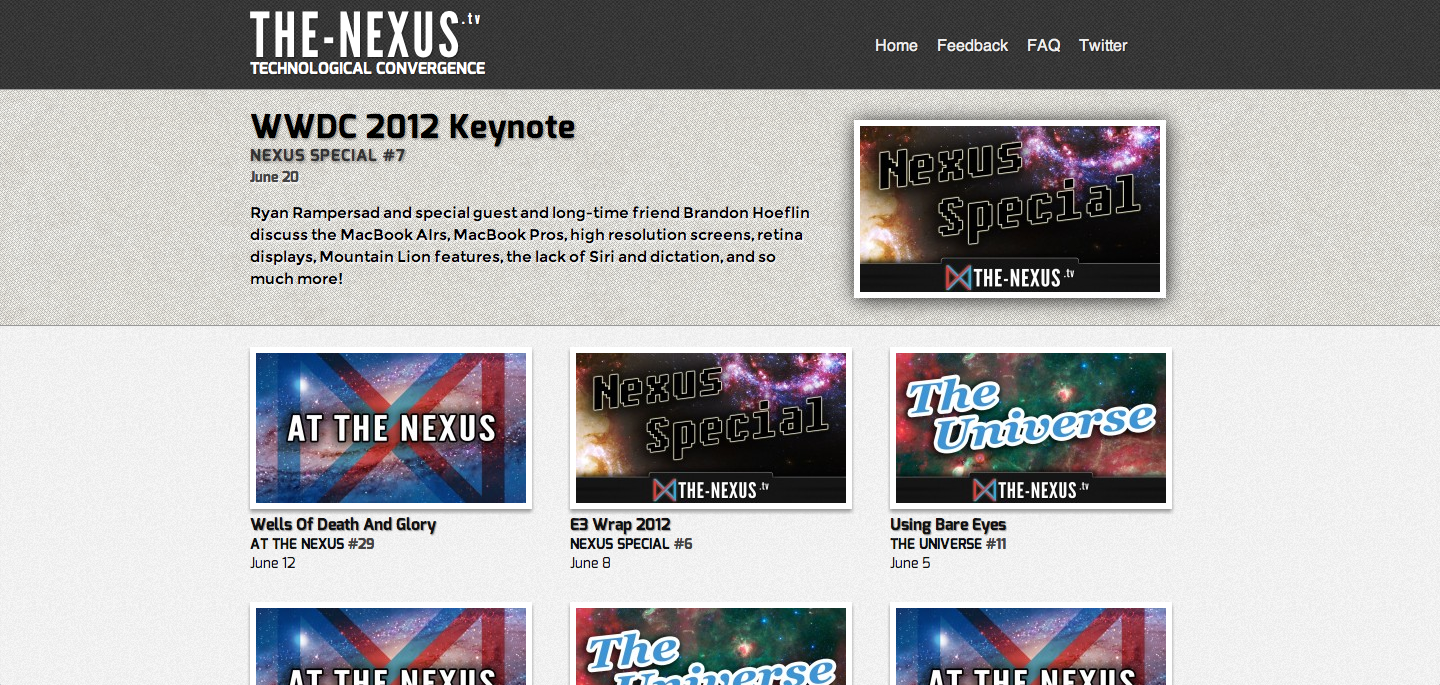
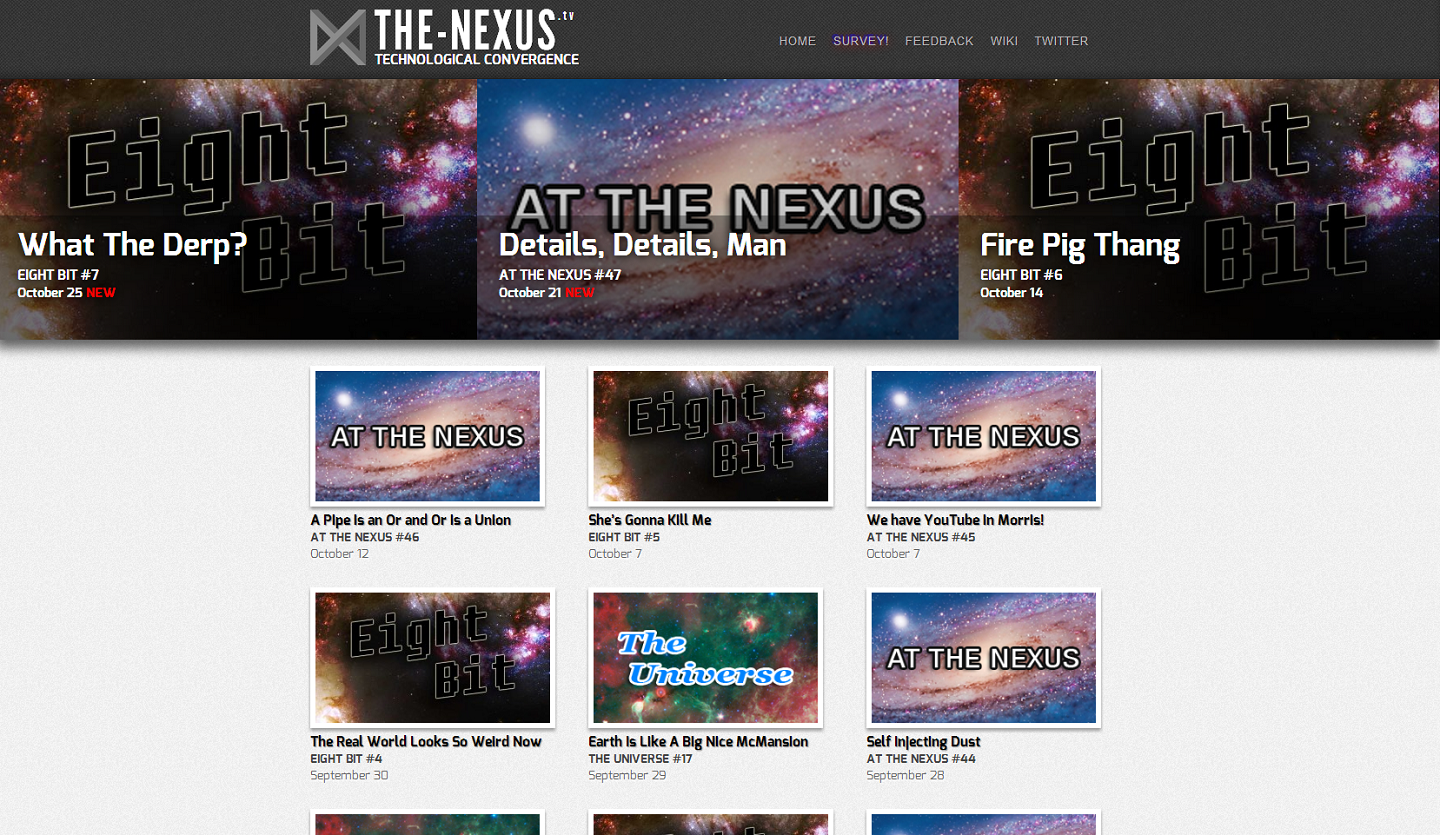
Updated showboard loop and added comments.
Changed front-template comments to reflect new design.
Updated missing comments in functions.
Updated the screenshot to reflect new design.
Did something to styles.

diff --git a/style.css b/style.css
@@ -4,7 +4,7 @@
 * Author: Ryan Rampersad
 * Author URI: http://ryanrampersad.com/
 * Description: The 2012 theme for The Nexus TV.
-* Version: 0.223
+* Version: 0.300
 */
 /* normalize.css */
 /* normalize.css 2011-11-04T15:38 UTC - http://github.com/necolas/normalize.css */
@@ -486,18 +486,19 @@ h1, h2, h3, h4, h5, h6 {
   font-size: 62px;
   line-height: 40px;
   font-family: 'LeagueGothicRegular', Helvetica, Arial, san-serif;
-  font-weight: normal; }
+  font-weight: normal;
+  /*  &:after {
+      content: ".tv";
+      font-size: 16px;
+      top: -2.1em;
+      position: relative;
+      line-height: 0px;
+      font-weight: normal;
+      text-transform: lowercase;
+    }*/ }
   #site-title a {
     color: #fff;
     text-decoration: none; }
-  #site-title:after {
-    content: ".tv";
-    font-size: 16px;
-    top: -2.1em;
-    position: relative;
-    line-height: 0px;
-    font-weight: normal;
-    text-transform: lowercase; }
 
 #site-description {
   margin-top: 2px;
@@ -700,6 +701,8 @@ a[href^="http://bit.ly/tntv-survey"] {
     word-wrap: break-word; }
   #villain .long-title {
     font-size: 30px; }
+  #villain .epic-title {
+    font-size: 24px; }
   #villain .show-name {
     text-transform: uppercase;
     font-size: 16px; }
@@ -750,7 +753,8 @@ a[href^="http://bit.ly/tntv-survey"] {
 
 #bottom-shelf {
   clear: both;
-  border-top: 1px solid #ccc; }
+  border-top: 1px solid #ccc;
+  padding-top: 15px; }
   #bottom-shelf .overflow {
     padding-top: 48px;
     padding-left: 20px;

diff --git a/style.scss b/style.scss
@@ -366,6 +366,9 @@ a[href^="http://bit.ly/tntv-survey"] {
   .long-title {
     font-size: 30px;
   }
+  .epic-title {
+    font-size: 24px;
+  }
   .show-name {
     text-transform: uppercase;
     font-size: 16px;
@@ -444,6 +447,7 @@ a[href^="http://bit.ly/tntv-survey"] {
 #bottom-shelf {
   clear: both;
   border-top: 1px solid #ccc;
+  padding-top: 15px;
 
   .overflow {
     padding-top: 48px;

diff --git a/front-template.php b/front-template.php
@@ -3,7 +3,10 @@
  * Template Name: Front
  *
  * This a custom template for the front page.
- * This setups the Hero with the banner for the newest show and then 3by3 grid of recent shows.
+ * This is the new (late 2012) front page. This front page will display the Villain block,
+ * a large 1-by-3 row of block images promoting three recent episodes.
+ * Below that, there is a 3-by-3 grid of episodes in posting order,
+ * and below that, the fridge or auxillary episodes are listed with the show more link.
  */
 
 get_header(); // Loads the header.php template. ?>
@@ -35,6 +38,8 @@ get_header(); // Loads the header.php template. ?>
                         $show_title_class = "";
                         if ($show_title_length > 24) {
                             $show_title_class = 'long-title ';
+                        } else if ( $show_title_length > 35 ) {
+                            $show_title_class = 'epic-title';
                         }
                     ?>
                     <h2 class="show-title <?php echo $show_title_class; ?>"><?php echo $show_title; ?></h2>
@@ -62,7 +67,7 @@ get_header(); // Loads the header.php template. ?>
     <?php endwhile; ?>
 
 
-        <!-- end #villain -->
+        <!-- celebrate #villain -->
     </div>
 
     <div id="content-container">
@@ -108,7 +113,7 @@ get_header(); // Loads the header.php template. ?>
                         <?php endwhile; ?>
 
                         <div class="episode-block overflow">
-                            <h3><a href="<?php echo get_bloginfo('site_url'); ?>/latest">More New Episodes &raquo;</a></h3>
+                            <h3><a href="<?php echo get_bloginfo('site_url'); ?>/latest">More Episodes &raquo;</a></h3>
                         </div>
 
                     </div><!-- #bottom-shelf -->

diff --git a/functions.php b/functions.php
@@ -117,6 +117,9 @@ function convergence_theme_setup_theme() {
 
 }
 
+/**
+* Adds the CSS into the system via WordPress instead of hard links.
+*/
 function convergence_enqueue_styles() {
   wp_enqueue_style('google-typography', 'http://fonts.googleapis.com/css?family=Exo:400,700|Montserrat');
   wp_enqueue_style('main', get_stylesheet_directory_uri() . '/style.css');

diff --git a/showboard-loop.php b/showboard-loop.php
@@ -18,7 +18,7 @@
   <h5 class="show-date"><a href="<?php echo get_permalink() ?>">
       <?php echo get_the_date("F j") ?>
       <?php
-        if ( strtotime($date) > strtotime("-7 days") ) {
+        if ( strtotime($date) > strtotime("-5 days") ) {
             echo('<span class="new">New</span>');
         }
       ?>
